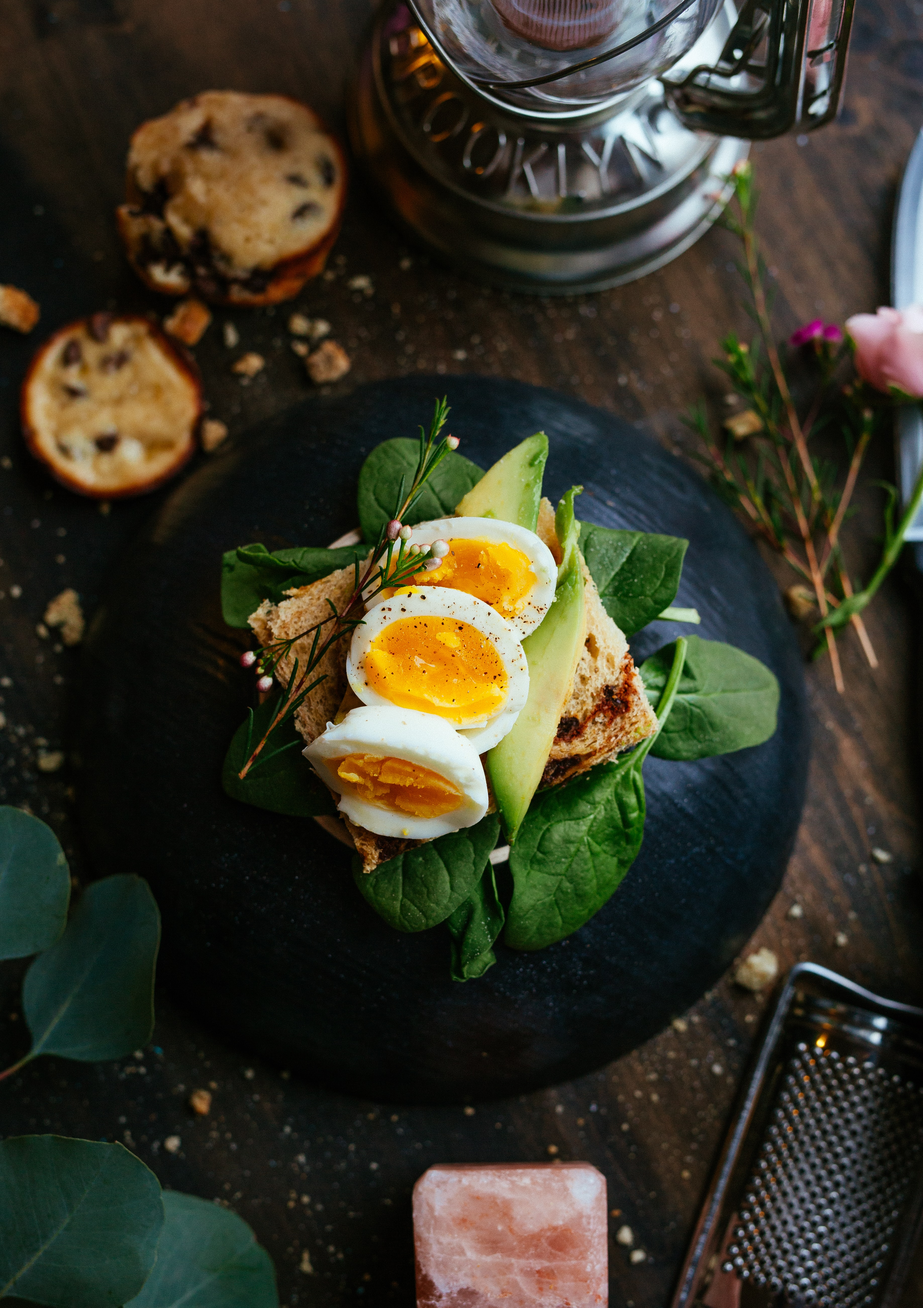
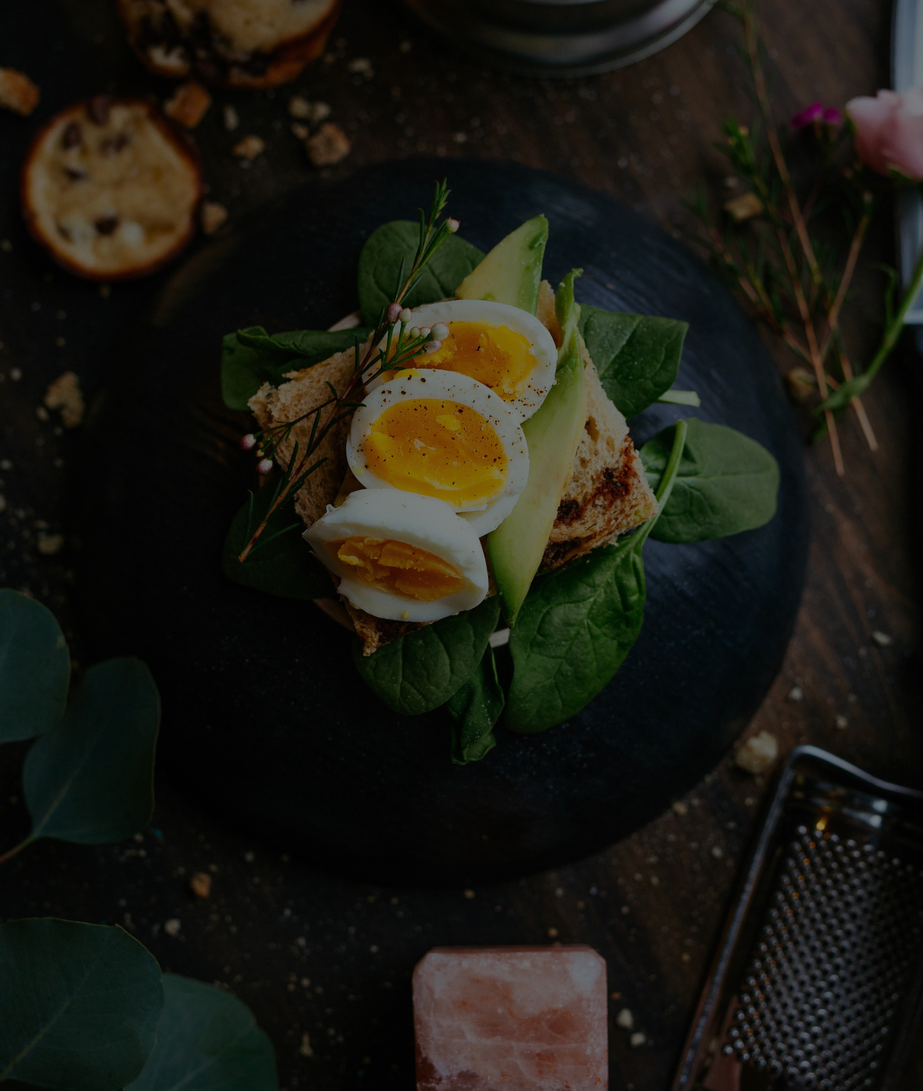
update

diff --git a/public/assets/css/contact.css b/public/assets/css/contact.css
@@ -100,22 +100,215 @@ body {
 
 .div-body .kiri {
     width: 40%;
-    background-color: blue;
+    background-image: url('../images/img-1.jpg');
+    background-size: cover;
 }
 
 /* Kanan */
 
 .div-body .kanan {
     width: 60%;
-    background-color: yellow;
+    padding-left: 30px;
+    padding-right: 30px;
+    background-color: #f8f8f8;
 }
 
 .title-form {
     font-size: 26px;
     font-weight: 700;
     color: #000;
+    animation: disappear 2s;
+}
+
+.form-contact label {
+    font-weight: 500;
+    font-size: 14px;
+    animation: disappear 2s;
+
 }
 
 .desc-form {
-    
+    font-size: 14px;
+    font-weight: 500;
+    color: #000;
+    width: 97%;
+    animation: disappear 2s;
+
+}
+
+.cont-box {
+    margin: 10px 0px;
+    width: 97%;
+    padding: 10px 10px;
+    border: solid 0px;
+    border-bottom: 0px;
+    border-radius: 3px;
+    background-color: #e6e6e6;  
+    font-family: 'Montserrat', sans-serif;
+    font-size: 13px;
+    animation: disappear 2s;
+
+}
+
+.text-box {
+    width: 97%;
+    margin: 10px 0px;
+    padding: 10px 10px;
+    border: solid 0px;
+    border-bottom: 0px;
+    border-radius: 3px;
+    background-color: #e6e6e6;
+    font-family: 'Montserrat', sans-serif;
+    font-size: 13px;
+    height: 120px;
+    animation: disappear 2s;
+
+}
+
+.form-contact button {
+    width: 99.5%;
+    height: 40px;
+    font-family: 'Montserrat', sans-serif;
+    font-size: 13px;
+    font-weight: 600;
+    background-color: #f8f8f8;
+    border: solid 1px black;
+    animation: disappear 2s;
+
+}
+
+.form-contact button:hover {
+    color: #f8f8f8;
+    background-color: #000;
+    animation: disappear 0.4s;
+}
+
+@keyframes disappear {
+    from {
+        opacity: 0.1;
+    }
+
+    to {
+        opacity: 1;
+    }
+}
+
+@keyframes zoom {
+    from {
+        transform: scale(0.1);
+    }
+
+    to {
+    }
+}
+
+@keyframes to-left {
+    from {
+        transform: scale(0.1);
+    }
+
+    to {
+    }
+}
+
+
+.footercoi {
+    display: flex;
+    justify-content: space-between;
+    margin: 0px 140px;
+    margin-top: 120px;
+    animation: disappear 2s;
+}
+
+.footercoi div {
+    width: 160px;
+    height: 300px;
+    /* background-color: red; */
+    font-family: 'Montserrat', 'sans-serif';
+}
+
+.footercoi div ul li {
+    text-decoration: none;
+    list-style: none;
+    color: #000000;
+    font-weight: 500;
+    font-size: 12px;
+    line-height: 30px;
+}
+
+.footercoi .footlogo {
+    width: 260px;
+    height: 250px;
+}
+
+.footercoi .footlogo div {
+    height: 125px;
+    width: 260px;
+}
+
+.footercoi .footlogo .ea {
+    /* background-color: blue; */
+    display: flex;
+}
+
+.footercoi .footlogo .ea img {
+    width: 50px;
+    margin-left: 20px;
+    margin-top: 20px;
+}
+
+.footercoi .footlogo .ea .wikbooksfoot {
+    font-family: 'Montserrat', 'sans-serif';
+    font-weight: 600;
+    font-size: 16px;
+    color: #000000;
+    position: absolute;
+    margin-left: 28px;
+}
+
+.eaa {
+    margin-top: -50px;
+
+}
+
+.judul2-ea {
+    font-family: 'Montserrat', 'sans-serif';
+    font-weight: 600;
+    font-size: 10px;
+    color: #000000;
+    margin-left: 28px;
+    padding-top: 10px;
+}
+
+.desk2-ea {
+    font-family: 'Montserrat', 'sans-serif';
+    font-weight: 500;
+    font-size: 10px;
+    color: #000000;
+    margin-left: 28px;
+}
+
+.footercoi .footlogo .ea .wikbooksfoot2 {
+    font-family: 'Montserrat', 'sans-serif';
+    font-weight: 500;
+    font-size: 10px;
+    color: #000000;
+    position: absolute;
+    margin-top: 40px;
+    margin-left: 28px;
+}
+
+.footercoi div ul p {
+    color: #000000;
+    font-weight: 600;
+    font-size: 13px;
+}
+
+.footercoi div ul li a {
+    text-decoration: none;
+    color: #000000;
+}
+
+.footercoi div ul li a:hover {
+    color: #00ac2b;
 }

diff --git a/resources/views/user/contact.blade.php b/resources/views/user/contact.blade.php
@@ -36,21 +36,71 @@
     <div class="kanan">
         <p class="title-form">Hi, Dear Customer</p>
         <div class="desc-form">Lorem, ipsum dolor sit amet consectetur adipisicing elit. Aspernatur neque officiis explicabo ea impedit qui at magnam doloribus maxime reiciendis magni accusamus sint laborum hic eveniet atque ipsa, voluptates laudantium.</div>
+        <br>
         <form action="" class="form-contact">
             <label for="">Your Name :</label>
             <br>
-            <input type="text">
+            <input type="text" placeholder="Full Name" class="cont-box">
             <br>
             <label for="">Your Email :</label>
             <br>
-            <input type="text">
+            <input type="text" placeholder="Email Address" class="cont-box">
             <br>
             <label for="">Messages :</label>
             <br>
-            <textarea name="" id="" cols="30" rows="10"></textarea>
+            <textarea class="text-box" placeholder="Your Messages" name="" id="" cols="30" rows="10"></textarea>
+            <br><br>
+            <button type="submit">SUBMIT</button>
         </form>
     </div>
 </div>
+
+
+<footer>
+        <div class="footercoi">
+            <div class="footlogo">
+                <div class="ea">
+                    <div class="anak-ea">
+                        <p class="wikbooksfoot">CAFE BDP&#169;</p>
+                        <p class="wikbooksfoot2">Good Food<br>Good Mood.</p>
+                    </div>
+                    <div class="anak2-ea">
+                        
+                    </div>
+                </div>
+                <div class="eaa">
+                    <p class="judul2-ea">About Us</p>
+                        <p class="desk2-ea">Lorem ipsum dolor sit amet consectetur adipisicing elit. Vero cum iste doloribus architecto placeat facilis error debitis aut molestiae quam, id, quod, voluptates dolorum dicta corporis fugiat nostrum beatae officia.</p>
+
+                </div>
+            </div>
+            <div class="foot1">
+                <ul>
+                    <p class="special-1"><b>Menus</b></p>
+                    <li><a href="/books">Main Courses</a></li>
+                    <li><a href="/books">Appetizers</a></li>
+                    <li><a href="/books">Desserts</a></li>
+                    <li><a href="/books">Drinks</a></li>
+                    <li><a href="/books">Snacks</a></li>
+                </ul>
+            </div>
+            <div class="foot2">
+                <ul>
+                    <p class="special-2"><b>Pages</b></p>
+                    <li><a href="/menu">Menu</a></li>
+                    <li><a href="/order">Order</a></li>
+                    <li><a href="/reviews">Review</a></li>
+                    <li><a href="/contact">Contact</a></li>
+                </ul>
+            </div>
+            <div class="foot3">
+                <ul>
+                    <p class="special-3"><b>Action</b></p>
+                    <li><a href="/home">Home</a></li>
+                </ul>
+            </div>
+        </div>
+    </footer>
 
 </body>
 </html>

diff --git a/resources/views/user/cart.blade.php b/resources/views/user/cart.blade.php
@@ -35,6 +35,7 @@
     </div>
 </div>
 
+
 <!-- <div class="eaw">  
     <a href="{{ url('/menu') }}"></a><button class="button-30" role="button"><i class="apahayoo fa-solid fa-basket-shopping"></i><p>IDR sekian</p><p class="jikakalau">sekian</p></button>
 </div> -->
@@ -67,27 +68,31 @@
                     <td class="desc-order" data-th="Product">
                         <img src="{{ $details['image'] }}" alt="">
                         <p class="order-title">{{ $details['name'] }}</p>
+                        <input type="hidden" name="id_product" value="{{ $id }}">
                     </td>
                     <td data-th="Price">Rp {{ $details['price'] }}</td>
                     <td data-th="Quantity">
-                        <input type="number" value="{{ $details['quantity'] }}" class="quantity cart_update" min="1" />
+                        <input type="number" name="total_pesanan" value="{{ $details['quantity'] }}" class="quantity cart_update" min="1" />
                     </td>
                     <td data-th="">
                         <button class="remove-button"><i class="fa-solid fa-xmark"></i></button>
                     </td>
-                    <td data-th="Subtotal">{{ $details['price'] * $details['quantity'] }}</td>
+                    <td data-th="Subtotal">
+                        <input type="hidden" name="totalPrice" value="{{ $details['price'] * $details['quantity'] }}">
+                        {{ $details['price'] * $details['quantity'] }}</td>
                 </tr>
             @endforeach
         @endif
         </tbody>
         <tfoot>
             <div class="eaw">  
-                <button class="button-30" role="button"><i class="apahayoo fa-solid fa-basket-shopping"></i><p>IDR {{ $total }}</p><p class="jikakalau">count</p></button>
+                <button class="button-30" role="button"><i class="apahayoo fa-solid fa-basket-shopping"></i><p>IDR {{ $total }}</p><p class="jikakalau">{{ count((array) session('cart')) }}</p></button>
             </div>
         </tfoot>
     </table>
     </form>
 </div>
+
 
     <footer>
         <div class="footercoi">
@@ -143,7 +148,7 @@
             var ele = $(this);
       
             $.ajax({
-                url: '{{ route('update_cart') }}',
+                url: "{{ route('update_cart') }}",
                 method: "patch",
                 data: {
                     _token: '{{ csrf_token() }}', 
@@ -163,7 +168,7 @@
       
             if(confirm("Do you really want to remove?")) {
                 $.ajax({
-                    url: '{{ route('remove_from_cart') }}',
+                    url: "{{route('remove_from_cart') }}",
                     method: "DELETE",
                     data: {
                         _token: '{{ csrf_token() }}', 

diff --git a/app/Http/Controllers/ProductController.php b/app/Http/Controllers/ProductController.php
@@ -73,11 +73,11 @@ class ProductController extends Controller
                     'totalPrice' => $totalPrice[$i]
                 ]);
 
-                $products = Product::where('id_product','=',$id_product)->first();
-                $total = $products->array['stock']-$total_pesanan[$i];
-                $products->update([
-                    'stock' => $total[$i],
-                ]);
+                // $products = Product::where('id_product','=',$id_product)->first();
+                // $total = $products->array['stock']-$total_pesanan[$i];
+                // $products->update([
+                //     'stock' => $total[$i],
+                // ]);
             }
         
             $request->session()->forget('cart');

diff --git a/database/migrations/2023_04_11_045325_create_orders_table.php b/database/migrations/2023_04_11_045325_create_orders_table.php
@@ -15,8 +15,6 @@ return new class extends Migration
             $table->id();
             $table->bigInteger('id_product');
             $table->integer('total_pesanan');
-            $table->integer('subtotal');
-            $table->integer('bayar');
             $table->timestamps();
         });
     }
